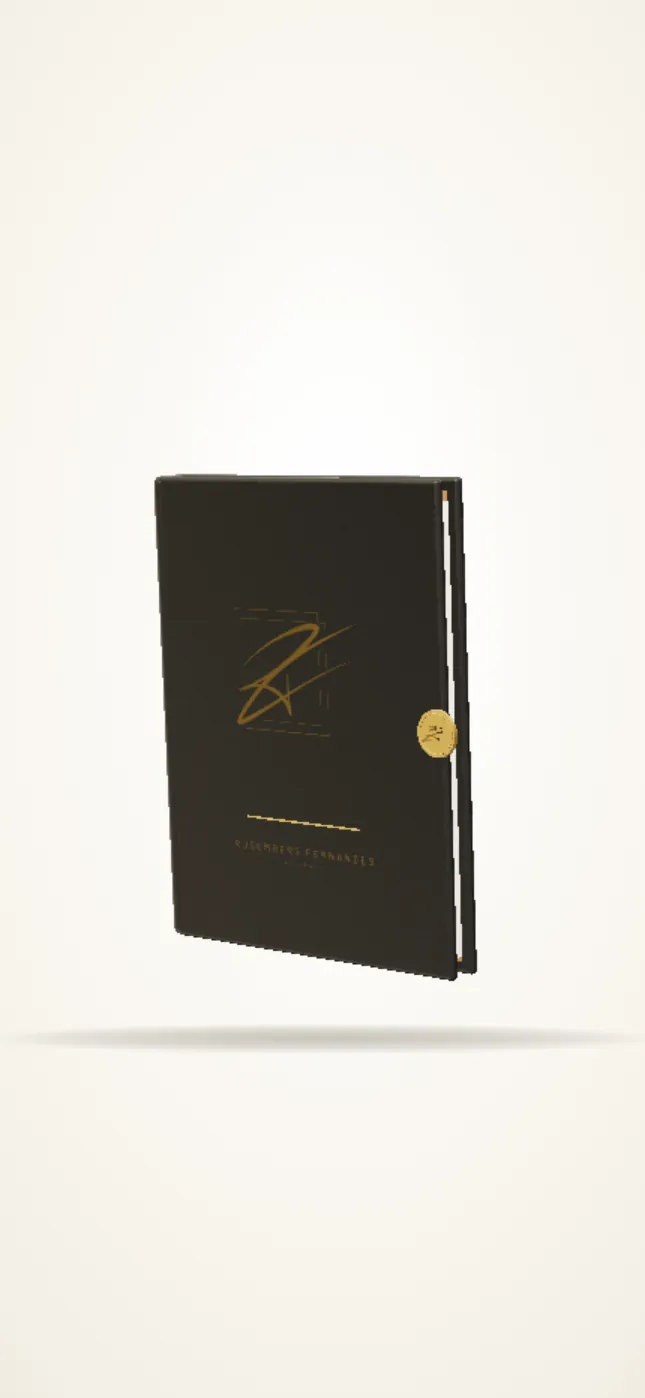
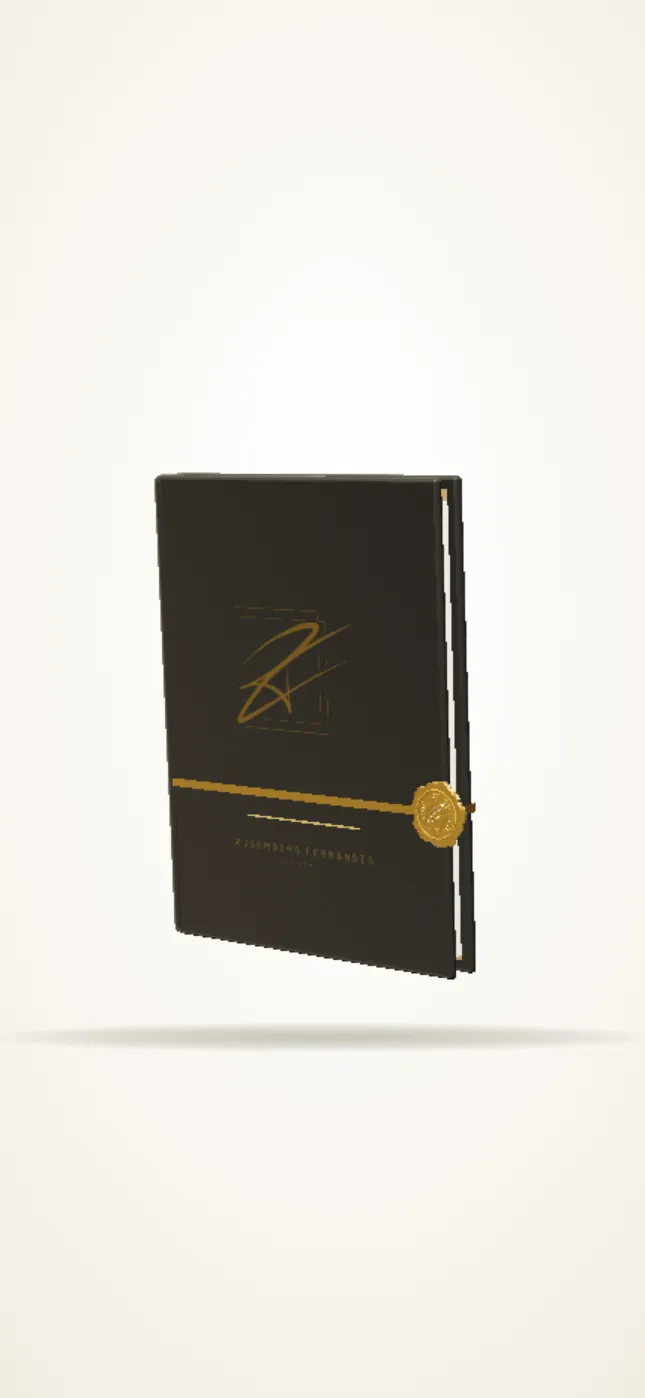
Abertura: selo de cera em ouro com a marca circular e fita; poeira mais visível
- Selo refeito como cera derramada e prensada: contorno irregular, borda
  arredondada, dourado metálico, e o selo circular da marca (assinatura,
  nome e "Advogado") em alto-relevo no topo
- Fita acetinada dourada passando pela capa, borda e verso, presa pelo selo;
  some quando o selo se rompe e a capa abre
- Poeira dourada maior e mais opaca; volta a aparecer também no celular,
  em menor quantidade
- Imagens estáticas da abertura refeitas com o selo novo

Claude-Session: https://claude.ai/code/session_01F2YuZeUdx1xZmzu4ton3dD

diff --git a/js/cena.js b/js/cena.js
@@ -228,27 +228,54 @@ async function iniciar() {
   dobradica.add(assin);
 
   // ---------- selo de cera sobre a borda da capa: rompe-se ao abrir ----------
-  // selo pequeno e discreto, em cera dourada acetinada (paleta do escritório),
-  // com a rubrica gravada em tom de bronze e um filete fino na borda
+  // selo de cera em ouro, com o selo circular da marca prensado no topo,
+  // sobre uma fita que envolve o livro: a fita e o selo mantêm o livro fechado
+  const relevo = await tex('assets/3d/selo_relevo.png');
+  if (relevo) { relevo.wrapS = relevo.wrapT = THREE.ClampToEdgeWrapping; relevo.repeat.set(1, 1); }
   const selo = new THREE.Group();
-  const cera = new THREE.MeshPhysicalMaterial({ color: 0xc9a24a, metalness: 0.55, roughness: 0.36, clearcoat: 0.6, clearcoatRoughness: 0.3, transparent: true });
-  const RS = 0.0165, HS = 0.0028;
-  const ouroSelo = new THREE.MeshPhysicalMaterial({ color: 0x7a5f22, metalness: 0.85, roughness: 0.5, alphaMap: emblema, transparent: true, alphaTest: 0.35 });
+  const cera = new THREE.MeshPhysicalMaterial({ color: 0xd9a93c, metalness: 0.9, roughness: 0.3, clearcoat: 0.45, clearcoatRoughness: 0.25, envMapIntensity: 1.5, transparent: true });
+  const ouroSelo = cera.clone(); // topo prensado: relevo da marca e um leve brilho nos traços em alto-relevo
+  ouroSelo.bumpMap = relevo; ouroSelo.bumpScale = 3.2; ouroSelo.emissiveMap = relevo; ouroSelo.emissive = new THREE.Color(0x4a3208); ouroSelo.emissiveIntensity = 0.55;
+  const RS = 0.021, HS = 0.0042, YS = -0.057;
+  // contorno irregular, como cera derramada e prensada
+  const raio = (a) => RS * (1 + 0.045 * Math.sin(5 * a + 1.3) + 0.03 * Math.sin(11 * a + 0.4) + 0.018 * Math.sin(19 * a + 2.1));
+  const corpoCera = (a0, ang) => {
+    const sh = new THREE.Shape(), N = Math.round(64 * ang / (2 * Math.PI));
+    for (let i = 0; i <= N; i++) { const a = a0 + ang * i / N, r = raio(a); const x = Math.cos(a) * r, y = Math.sin(a) * r; if (i) sh.lineTo(x, y); else sh.moveTo(x, y); }
+    if (ang < 6) sh.lineTo(0, 0);
+    const g = new THREE.ExtrudeGeometry(sh, { depth: HS * 0.4, bevelEnabled: true, bevelThickness: HS * 0.3, bevelSize: RS * 0.09, bevelSegments: 5, curveSegments: 8 });
+    g.translate(0, 0, -HS * 0.2); return g;
+  };
+  const RT = RS * 0.8; // área prensada pelo sinete
+  const topo = (t0, ang) => new THREE.CircleGeometry(RT, 64, t0, ang);
+  // selo inteiro (antes de romper)
+  const inteiro = new THREE.Group();
+  { const c = new THREE.Mesh(corpoCera(0, Math.PI * 2), cera); c.castShadow = true; inteiro.add(c);
+    const tp = new THREE.Mesh(topo(0, Math.PI * 2), ouroSelo); tp.position.z = HS / 2 + 0.00012; inteiro.add(tp);
+    const anel = new THREE.Mesh(new THREE.TorusGeometry(RT * 1.02, 0.0006, 10, 72), cera); anel.position.z = HS / 2 + 0.0001; inteiro.add(anel); }
+  selo.add(inteiro);
+  // metades (aparecem quando o selo racha)
   const metades = [0, 1].map((lado) => {
-    const g = new THREE.Group();
-    const corpo = new THREE.Mesh(new THREE.CylinderGeometry(RS, RS * 1.03, HS, 56, 1, false, lado ? Math.PI : 0, Math.PI), cera);
-    corpo.rotation.x = Math.PI / 2; corpo.castShadow = true; g.add(corpo);
-    // filete em relevo junto à borda
-    const anel = new THREE.Mesh(new THREE.TorusGeometry(RS * 0.86, 0.00045, 8, 40, Math.PI), cera);
-    anel.rotation.z = lado ? Math.PI / 2 : -Math.PI / 2; anel.position.z = HS / 2; g.add(anel);
-    // rubrica gravada, dividida ao meio junto com a cera
-    const pg2 = new THREE.PlaneGeometry(RS * 1.35, RS * 1.35 * 2, 1, 1);
-    const uv = pg2.attributes.uv; for (let i = 0; i < uv.count; i++) uv.setX(i, lado ? uv.getX(i) * 0.5 : 0.5 + uv.getX(i) * 0.5);
-    const emb2 = new THREE.Mesh(pg2, ouroSelo); emb2.scale.y = 0.5; emb2.position.set(lado ? -RS * 0.3375 : RS * 0.3375, 0, HS / 2 + 0.0002); g.add(emb2);
+    const g = new THREE.Group(); g.visible = false;
+    const a0 = lado ? Math.PI / 2 : -Math.PI / 2;
+    const c = new THREE.Mesh(corpoCera(a0, Math.PI), cera); c.castShadow = true; g.add(c);
+    const tp = new THREE.Mesh(topo(a0, Math.PI), ouroSelo); tp.position.z = HS / 2 + 0.00012; g.add(tp);
+    const anel = new THREE.Mesh(new THREE.TorusGeometry(RT * 1.02, 0.0006, 10, 36, Math.PI), cera);
+    anel.rotation.z = a0; anel.position.z = HS / 2 + 0.0001; g.add(anel);
     selo.add(g); return g;
   });
-  selo.position.set(W / 2 - 0.006, -0.0, 0.022 + T / 2 + HS / 2 + 0.0004);
+  selo.position.set(W / 2 - 0.006, YS, 0.022 + T / 2 + HS / 2 + 0.0004);
   pasta.add(selo);
+  // fita acetinada que passa pela capa, contorna a borda e segue pelo verso
+  const fitaMat = new THREE.MeshPhysicalMaterial({ color: 0x8f6f28, metalness: 0.55, roughness: 0.38, sheen: 0.6, sheenColor: new THREE.Color(0xd9b866), sheenRoughness: 0.35, transparent: true, side: THREE.DoubleSide });
+  const LF = 0.0062;
+  const fitaFrente = new THREE.Mesh(new THREE.PlaneGeometry(W - 0.003, LF), fitaMat);
+  fitaFrente.position.set(W / 2 - 0.004, YS, T / 2 + 0.0004); dobradica.add(fitaFrente);
+  const fitaBorda = new THREE.Mesh(new THREE.PlaneGeometry(0.022 + T + 0.002, LF), fitaMat);
+  fitaBorda.rotation.y = Math.PI / 2; fitaBorda.position.set(W / 2 + 0.0006, YS, 0.011); pasta.add(fitaBorda);
+  const fitaVerso = new THREE.Mesh(new THREE.PlaneGeometry(W - 0.003, LF), fitaMat);
+  fitaVerso.rotation.y = Math.PI; fitaVerso.position.set(0, YS, -T / 2 - 0.0004); pasta.add(fitaVerso);
+  const fitas = [fitaFrente, fitaBorda, fitaVerso];
 
   // ---------- a mesa (capítulo 3) ----------
   const mesaAlpha = mascaraRadial();
@@ -325,7 +352,7 @@ async function iniciar() {
   scene.add(sombraPasta);
 
   // ---------- poeira dourada em suspensão ----------
-  const NP = mobile() ? 0 : 220;
+  const NP = mobile() ? 90 : 240;
   const pg = new THREE.BufferGeometry();
   const pp = new Float32Array(NP * 3), ps = new Float32Array(NP);
   for (let i = 0; i < NP; i++) { pp[i * 3] = (Math.random() - .5) * 1.6; pp[i * 3 + 1] = (Math.random() - .5) * 1.0; pp[i * 3 + 2] = (Math.random() - .5) * 1.0; ps[i] = Math.random(); }
@@ -337,9 +364,9 @@ async function iniciar() {
     uniforms: { uT: { value: 0 }, uA: { value: 1 }, uPx: { value: renderer.getPixelRatio() } },
     vertexShader: `attribute float seed; uniform float uT; uniform float uPx; varying float vA;
       void main(){ vec3 p=position; p.y+=mod(uT*0.012+seed*1.0,1.0)-0.5; p.x+=sin(uT*0.3+seed*20.)*0.02;
-      vec4 mv=modelViewMatrix*vec4(p,1.); gl_Position=projectionMatrix*mv; gl_PointSize=(1.5+seed*2.5)*uPx*(1.2/-mv.z); vA=0.25+0.5*seed; }`,
+      vec4 mv=modelViewMatrix*vec4(p,1.); gl_Position=projectionMatrix*mv; gl_PointSize=(2.2+seed*3.2)*uPx*(1.2/-mv.z); vA=0.42+0.58*seed; }`,
     fragmentShader: `uniform float uA; varying float vA; void main(){ float d=length(gl_PointCoord-.5); if(d>.5) discard;
-      gl_FragColor=vec4(.74,.58,.2, (1.-d*2.)*vA*uA*.9); }`,
+      gl_FragColor=vec4(.72,.55,.17, (1.-d*2.)*vA*uA); }`,
   }));
   if (NP) scene.add(poeira);
 
@@ -982,12 +1009,15 @@ async function iniciar() {
       const sq = seg(abertura.v, 0, 0.22);
       const racha = eio(seg(sq, 0, 0.4)), cai = seg(sq, 0.4, 1);
       selo.visible = sq < 0.999;
+      inteiro.visible = racha < 0.01;
       metades.forEach((g, lado) => {
+        g.visible = racha >= 0.01;
         const sd = lado ? -1 : 1;
         g.position.set(sd * (racha * 0.0035 + cai * 0.006), -cai * cai * 0.1, racha * 0.002);
         g.rotation.set(0, sd * racha * 0.22, -sd * cai * 0.35);
       });
       cera.opacity = 1 - seg(cai, 0.35, 1); ouroSelo.opacity = cera.opacity;
+      fitaMat.opacity = 1 - seg(sq, 0.15, 0.7); fitas.forEach((f) => { f.visible = fitaMat.opacity > 0.01; });
     }
     barra.style.transform = `scaleX(${p.toFixed(4)})`;
   }

diff --git a/index.html b/index.html
@@ -87,8 +87,8 @@
 <link rel="preload" href="assets/fonts/cormorant-garamond-latin-500-normal.woff2" as="font" type="font/woff2" crossorigin>
 <link rel="preload" href="assets/fonts/barlow-latin-400-normal.woff2" as="font" type="font/woff2" crossorigin>
 
-<link rel="stylesheet" href="css/style.css?v=20261124a">
-<link rel="stylesheet" href="css/ebooks.css?v=20261124a">
+<link rel="stylesheet" href="css/style.css?v=20261124b">
+<link rel="stylesheet" href="css/ebooks.css?v=20261124b">
 
 <script type="importmap">
 { "imports": { "three": "./assets/vendor/three/three.module.min.js" } }
@@ -136,7 +136,7 @@
       <div class="cena-luz"></div>
       <div class="cena-ambiente" id="cenaAmbiente"></div>
     </div>
-    <picture><source media="(max-width: 760px)" srcset="assets/img/cena-poster-mobile.webp?v=20261124a"><img class="cena-poster" id="cenaPoster" src="assets/img/cena-poster.webp?v=20261124a" alt="" aria-hidden="true"></picture>
+    <picture><source media="(max-width: 760px)" srcset="assets/img/cena-poster-mobile.webp?v=20261124b"><img class="cena-poster" id="cenaPoster" src="assets/img/cena-poster.webp?v=20261124b" alt="" aria-hidden="true"></picture>
     <canvas class="cena-canvas" id="cenaCanvas" aria-hidden="true"></canvas>
     <div class="cena-vinheta" aria-hidden="true"></div>
 
@@ -625,8 +625,8 @@
   <svg viewBox="0 0 24 24" fill="none" aria-hidden="true"><path d="M20 11.6A8.4 8.4 0 017.6 19L4 20l1-3.5A8.4 8.4 0 1120 11.6z" stroke="currentColor" stroke-width="1.6" stroke-linejoin="round"/><path d="M9.2 8.6c.2-.4.5-.4.7-.4h.5c.2 0 .4.1.5.4l.6 1.4c.1.2 0 .4-.1.6l-.4.5c.5.9 1.3 1.7 2.2 2.2l.5-.4c.2-.1.4-.2.6-.1l1.4.6c.3.1.4.3.4.5v.5c0 .2 0 .5-.4.7-.5.3-1.3.5-2.2.2a8 8 0 01-4.6-4.6c-.3-.9-.1-1.7.2-2.2z" fill="currentColor"/></svg>
 </a>
 
-<script src="js/main.js?v=20261124a"></script>
-<script type="module" src="js/cena.js?v=20261124a"></script>
-<script src="js/estatisticas.js?v=20261124a" defer></script>
+<script src="js/main.js?v=20261124b"></script>
+<script type="module" src="js/cena.js?v=20261124b"></script>
+<script src="js/estatisticas.js?v=20261124b" defer></script>
 </body>
 </html>

diff --git a/ebooks.html b/ebooks.html
@@ -19,8 +19,8 @@
 <link rel="icon" type="image/svg+xml" href="assets/favicon.svg">
 <link rel="icon" type="image/png" sizes="32x32" href="assets/favicon-32.png">
 <link rel="apple-touch-icon" href="assets/favicon-180.png">
-<link rel="stylesheet" href="css/style.css?v=20261124a">
-<link rel="stylesheet" href="css/ebooks.css?v=20261124a">
+<link rel="stylesheet" href="css/style.css?v=20261124b">
+<link rel="stylesheet" href="css/ebooks.css?v=20261124b">
 </head>
 <body class="pagina-ebooks">
 
@@ -113,7 +113,7 @@
 
 <a href="https://wa.me/5583996069271" class="whats-float is-on" target="_blank" rel="noopener" aria-label="Falar no WhatsApp"><svg viewBox="0 0 24 24" fill="none" aria-hidden="true"><path d="M20 11.6A8.4 8.4 0 017.6 19L4 20l1-3.5A8.4 8.4 0 1120 11.6z" stroke="currentColor" stroke-width="1.6" stroke-linejoin="round"/><path d="M9.2 8.6c.2-.4.5-.4.7-.4h.5c.2 0 .4.1.5.4l.6 1.4c.1.2 0 .4-.1.6l-.4.5c.5.9 1.3 1.7 2.2 2.2l.5-.4c.2-.1.4-.2.6-.1l1.4.6c.3.1.4.3.4.5v.5c0 .2 0 .5-.4.7-.5.3-1.3.5-2.2.2a8 8 0 01-4.6-4.6c-.3-.9-.1-1.7.2-2.2z" fill="currentColor"/></svg></a>
 
-<script type="module" src="js/ebooks.js?v=20261124a"></script>
-<script src="js/estatisticas.js?v=20261124a" defer></script>
+<script type="module" src="js/ebooks.js?v=20261124b"></script>
+<script src="js/estatisticas.js?v=20261124b" defer></script>
 </body>
 </html>

diff --git a/politica-de-privacidade.html b/politica-de-privacidade.html
@@ -12,8 +12,8 @@
 <link rel="icon" type="image/svg+xml" href="assets/favicon.svg">
 <link rel="icon" type="image/png" sizes="32x32" href="assets/favicon-32.png">
 <link rel="apple-touch-icon" href="assets/favicon-180.png">
-<link rel="stylesheet" href="css/style.css?v=20261124a">
-<link rel="stylesheet" href="css/ebooks.css?v=20261124a">
+<link rel="stylesheet" href="css/style.css?v=20261124b">
+<link rel="stylesheet" href="css/ebooks.css?v=20261124b">
 </head>
 <body class="pagina-ebooks pagina-texto">
 
@@ -136,6 +136,6 @@
     t.addEventListener('click', function () { var a = h.classList.toggle('nav-open'); t.classList.toggle('open', a); t.setAttribute('aria-expanded', String(a)); });
   })();
 </script>
-<script src="js/estatisticas.js?v=20261124a" defer></script>
+<script src="js/estatisticas.js?v=20261124b" defer></script>
 </body>
 </html>

diff --git a/termos-de-uso.html b/termos-de-uso.html
@@ -12,8 +12,8 @@
 <link rel="icon" type="image/svg+xml" href="assets/favicon.svg">
 <link rel="icon" type="image/png" sizes="32x32" href="assets/favicon-32.png">
 <link rel="apple-touch-icon" href="assets/favicon-180.png">
-<link rel="stylesheet" href="css/style.css?v=20261124a">
-<link rel="stylesheet" href="css/ebooks.css?v=20261124a">
+<link rel="stylesheet" href="css/style.css?v=20261124b">
+<link rel="stylesheet" href="css/ebooks.css?v=20261124b">
 </head>
 <body class="pagina-ebooks pagina-texto">
 
@@ -92,6 +92,6 @@
     t.addEventListener('click', function () { var a = h.classList.toggle('nav-open'); t.classList.toggle('open', a); t.setAttribute('aria-expanded', String(a)); });
   })();
 </script>
-<script src="js/estatisticas.js?v=20261124a" defer></script>
+<script src="js/estatisticas.js?v=20261124b" defer></script>
 </body>
 </html>
